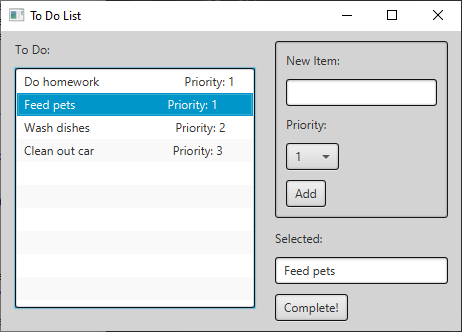
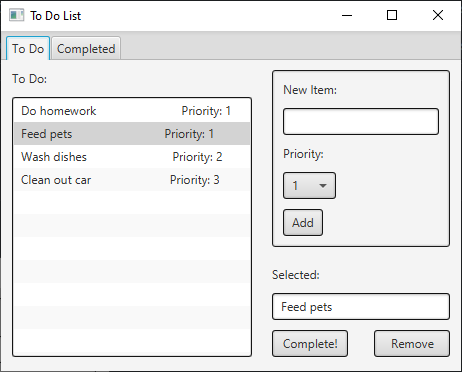
Add files via upload

diff --git a/src/fx/ToDoListApp.java b/src/fx/ToDoListApp.java
@@ -1,5 +1,7 @@
 package fx;
 
+import java.util.Stack;
+
 import javafx.application.Application;
 import javafx.collections.FXCollections;
 import javafx.collections.ObservableList;
@@ -10,6 +12,9 @@ import javafx.scene.control.Button;
 import javafx.scene.control.ComboBox;
 import javafx.scene.control.Label;
 import javafx.scene.control.ListView;
+import javafx.scene.control.Tab;
+import javafx.scene.control.TabPane;
+import javafx.scene.control.TabPane.TabClosingPolicy;
 import javafx.scene.control.TextField;
 import javafx.scene.layout.HBox;
 import javafx.scene.layout.VBox;
@@ -24,11 +29,15 @@ public class ToDoListApp extends Application {
 	private static ComboBox<Integer> cbPriority = new ComboBox<>();
 	private Button btnAdd = new Button("Add");
 	private Button btnComplete = new Button("Complete!");
+	private Button btnRemove = new Button("Remove");
+	private static ObservableList<String> completedItems = FXCollections.observableArrayList();
+	private static ListView<String> completedItemsListView = new ListView<String>(completedItems);
+	private Button btnClear = new Button("Clear");
 
 	@Override
 	public void start(Stage primaryStage) {
 
-		// Set up panes
+		// Set up panes for mainTab
 		HBox exteriorPane = new HBox();
 		exteriorPane.setAlignment(Pos.CENTER);
 		exteriorPane.setStyle("-fx-background: lightgray");
@@ -40,12 +49,12 @@ public class ToDoListApp extends Application {
 		rightPane.setAlignment(Pos.TOP_RIGHT);
 		exteriorPane.getChildren().add(leftPane);
 		exteriorPane.getChildren().add(rightPane);
-
+		
 		leftPane.setPadding(new Insets(10, 10, 10, 10));
 		rightPane.setPadding(new Insets(10, 10, 10, 10));
 
 		// Left pane stuff
-		toDoListView.setMaxHeight(240);
+		toDoListView.setMaxHeight(260);
 		toDoListView.setMaxWidth(240);
 		toDoListView.setStyle("-fx-border-width: 1;-fx-border-color: black;-fx-border-radius: 3;");
 		leftPane.getChildren().add(new Label("To Do: "));
@@ -75,17 +84,60 @@ public class ToDoListApp extends Application {
 		lowerPane.getChildren().add(tfCurrent);
 		tfCurrent.setStyle("-fx-border-width: 1;-fx-border-color: black;-fx-border-radius: 3;");
 		tfCurrent.setEditable(false);
-		lowerPane.getChildren().add(btnComplete);
+		
+		// Bottom pane stuff for the bottom of the Lower pane
+		HBox bottomPane = new HBox();
+		bottomPane.setSpacing(26);
+		bottomPane.getChildren().add(btnComplete);
 		btnComplete.setStyle("-fx-border-width: 1;-fx-border-color: black;-fx-border-radius: 3;");
+		btnComplete.setPrefWidth(76);
+		bottomPane.getChildren().add(btnRemove);
+		btnRemove.setStyle("-fx-border-width: 1;-fx-border-color: black;-fx-border-radius: 3;");
+		btnRemove.setPrefWidth(76);
+		lowerPane.getChildren().add(bottomPane);
 		rightPane.getChildren().add(lowerPane);
 
-		// Event handlers
+		// Event handlers for mainTab
 		toDoListView.setOnMouseClicked(e -> update());
 		btnAdd.setOnAction(e -> add());
 		btnComplete.setOnAction(e -> complete());
+		btnRemove.setOnAction(e -> remove());
+		
+		// Set up panes for completedTab
+		VBox completedPane = new VBox();
+		completedPane.setPadding(new Insets(10, 10, 10, 10));
+		//completedPane.setAlignment(Pos.CENTER);
+		completedPane.setSpacing(10);
+		Label lblCompletedItems = new Label("Completed Items:");
+		completedPane.getChildren().add(lblCompletedItems);
+		lblCompletedItems.setPadding(new Insets(0, 0, 0, 72));
+		HBox completedPaneBottom = new HBox();
+		completedPaneBottom.setSpacing(10);
+		completedPaneBottom.setAlignment(Pos.BOTTOM_CENTER);
+		completedPaneBottom.getChildren().add(completedItemsListView);
+		completedItemsListView.setMaxSize(240, 260);
+		completedItemsListView.setStyle("-fx-border-width: 1;-fx-border-color: black;-fx-border-radius: 3;");
+		completedPaneBottom.getChildren().add(btnClear);
+		btnClear.setStyle("-fx-border-width: 1;-fx-border-color: black;-fx-border-radius: 3;");
+		completedPane.getChildren().add(completedPaneBottom);
+		
+		// Event handlers for completedTab
+		btnClear.setOnAction(e -> completedItems.clear());
+
+		// Set up TabPane
+		TabPane tabPane = new TabPane();
+		Tab mainTab = new Tab();
+		mainTab.setText("To Do");
+		mainTab.setContent(exteriorPane);
+		Tab completedTab = new Tab();
+		completedTab.setText("Completed");
+		completedTab.setContent(completedPane);
+		tabPane.getTabs().add(mainTab);
+		tabPane.getTabs().add(completedTab);
+		tabPane.setTabClosingPolicy(TabClosingPolicy.UNAVAILABLE);
 
 		// Window stuff
-		Scene scene = new Scene(exteriorPane, 460, 300);
+		Scene scene = new Scene(tabPane, 460, 340);
 		primaryStage.setTitle("To Do List"); // Set the stage title
 		primaryStage.setScene(scene); // Place the scene in the stage
 		primaryStage.show(); // Display the stage
@@ -110,11 +162,19 @@ public class ToDoListApp extends Application {
 
 		update();
 	}
+	
+	public static void remove() {
+		int index = toDoListView.getSelectionModel().getSelectedIndex();
+		if (index > -1) {
+			toDoList.remove(index);
+		}
+	}
 
 	public static void update() { // Remove completed items and resort the List, update tfCurrent
 
 		for (int i = 0; i < toDoList.size(); i++) {
 			if (toDoList.get(i).isCompleted() == true) {
+				completedItems.add(0, toDoList.get(i).getElement());
 				toDoList.remove(i);
 			}
 		}
